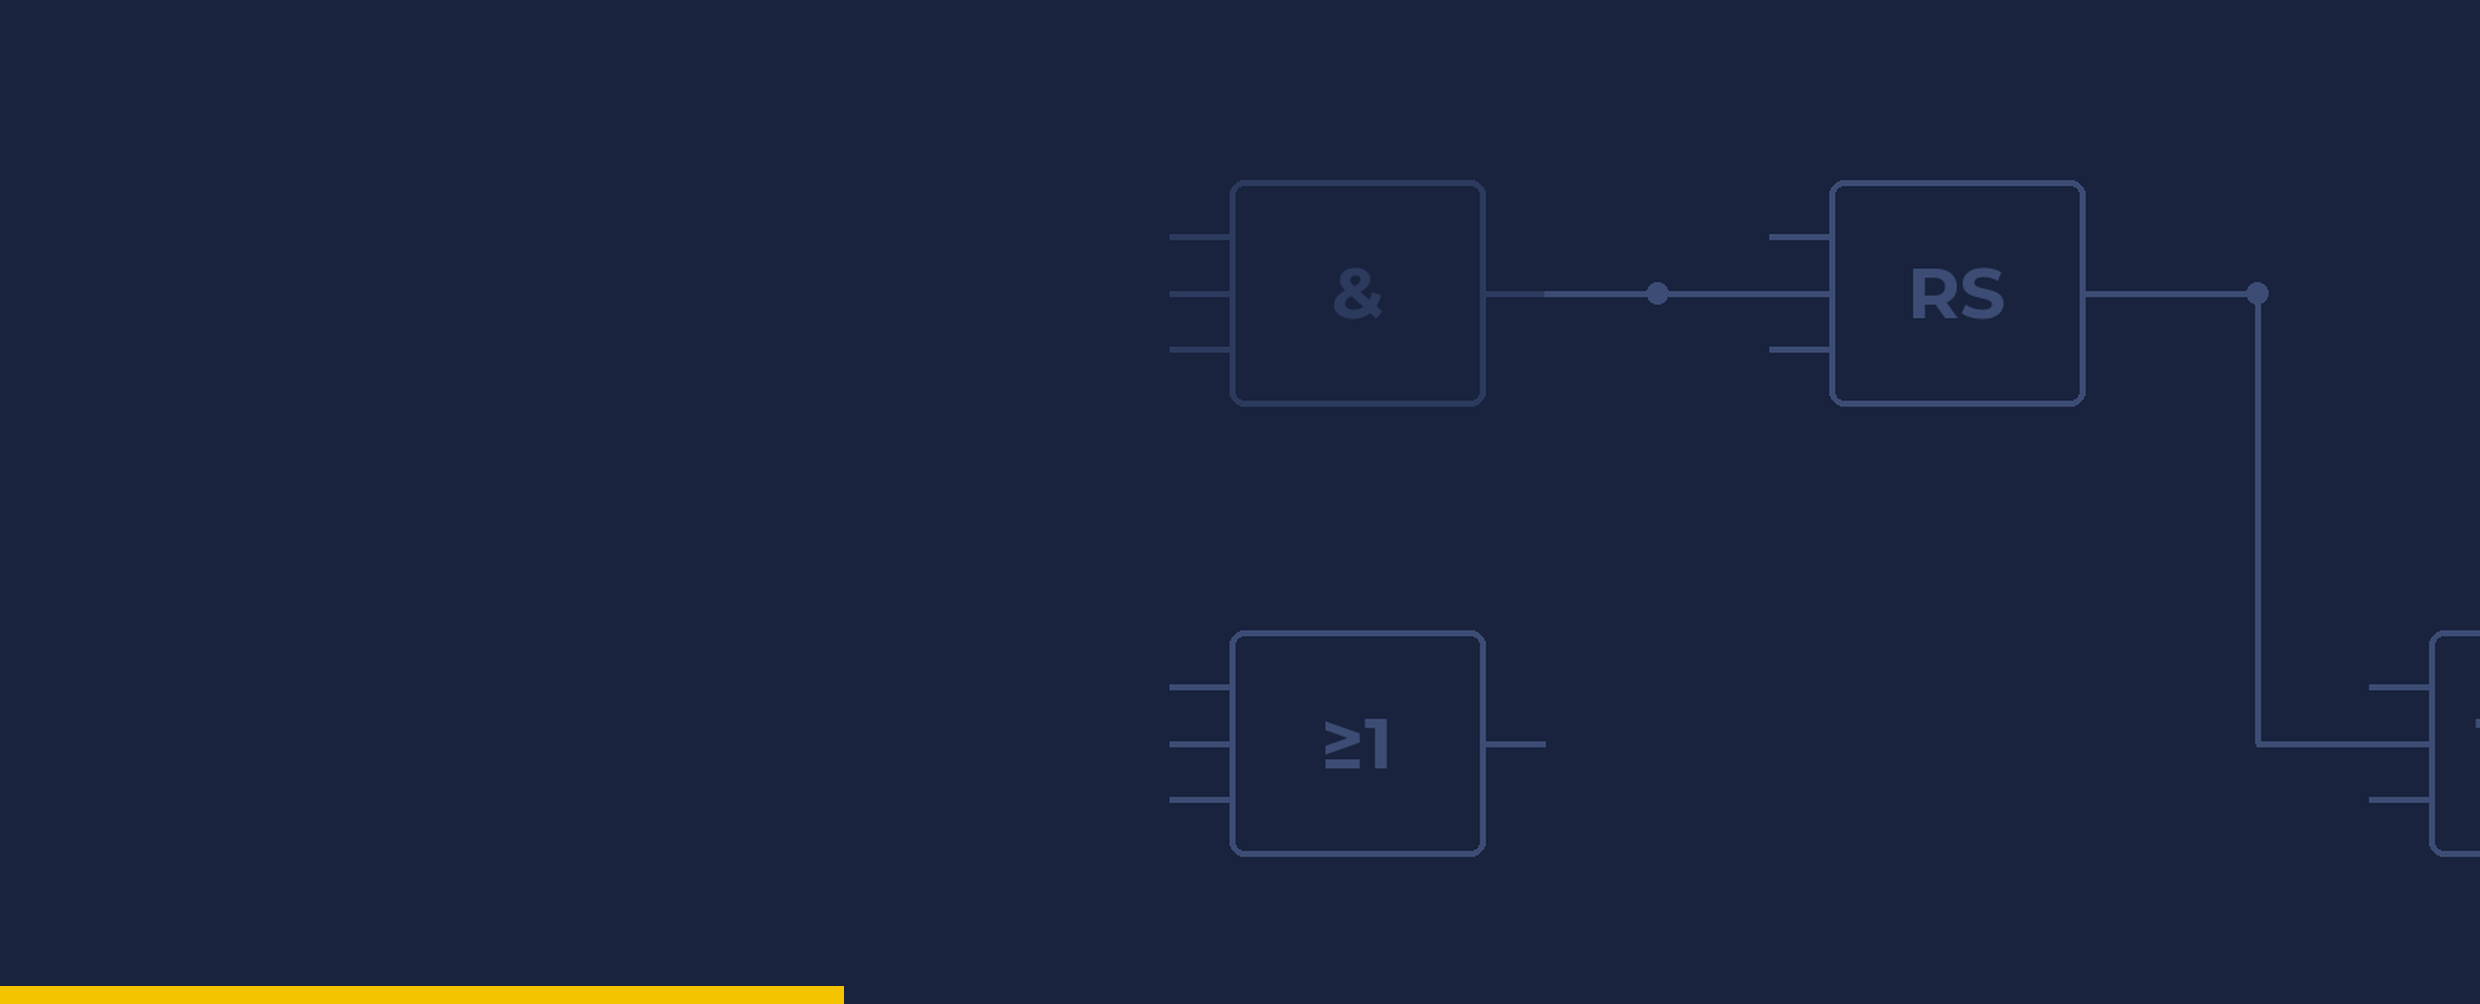
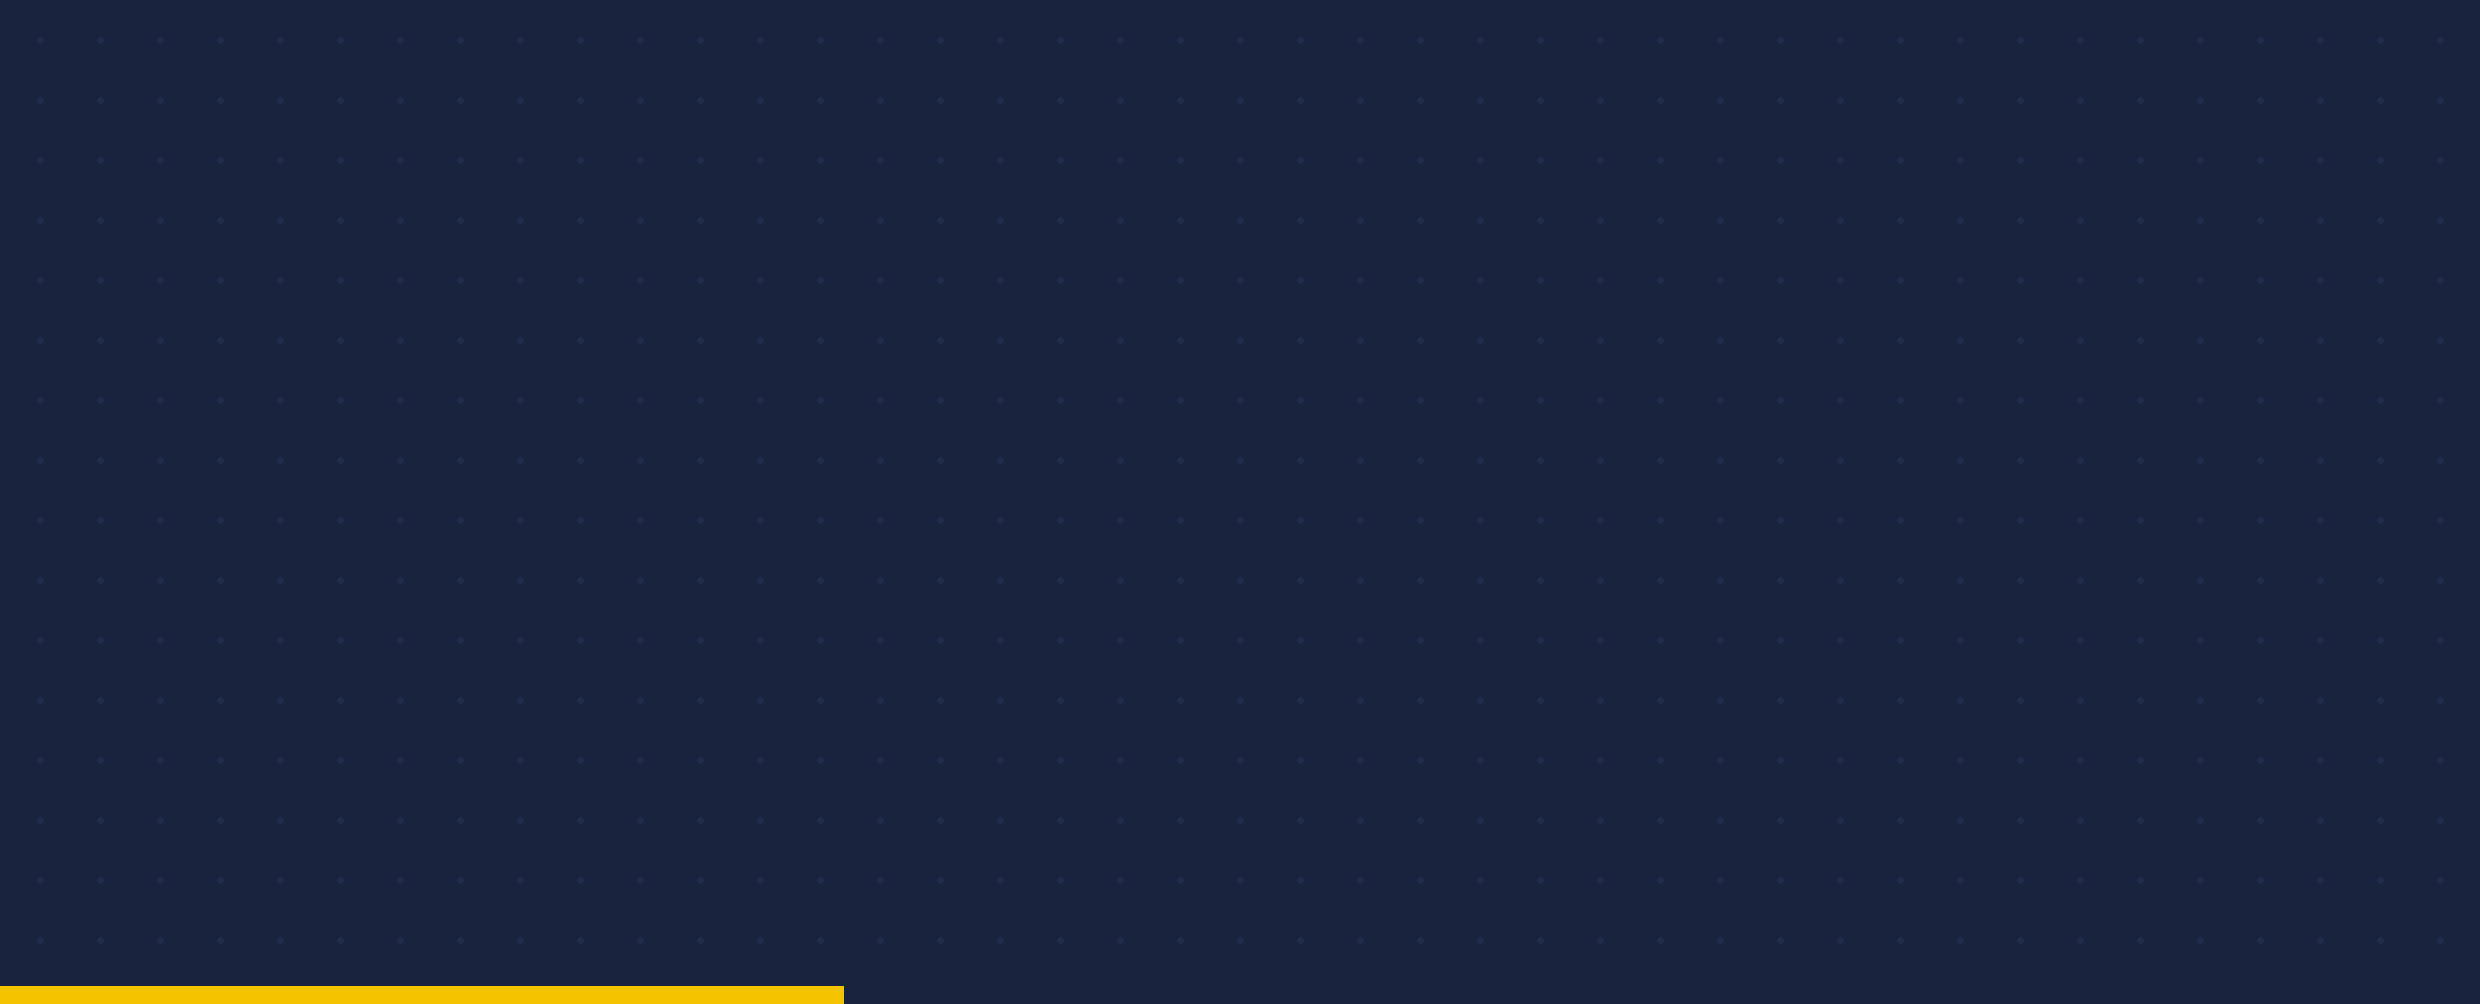
Aperturas con ilustración integrada en la banda, iconos y títulos sin dos puntos
Claude-Session: https://claude.ai/code/session_01M2qFGLwb8HVWzfFEaX54FN

diff --git a/herramientas/maquetar_manual.js b/herramientas/maquetar_manual.js
@@ -468,12 +468,15 @@ function apertura(el, etiqueta) {
   const id = idMarcador();
   indice.push({ nivel: 2, texto: el.text, id });
   const m = el.text.match(/^(\d+)\.\s*(.*)$/) || el.text.match(/^Anexo ([A-Z])\.\s*(.*)$/);
-  const banda = new ImageRun({ type: "png", data: fs.readFileSync(path.join(RAIZ, "assets/generados/banda_capitulo.png")),
+  const claveB = el.text.match(/^(\d+)\./) ? el.text.match(/^(\d+)\./)[1] : (el.text.match(/^Anexo ([A-Z])/) || [0, "A"])[1];
+  const fBanda = path.join(RAIZ, `assets/generados/banda_cap_${claveB}.png`);
+  const banda = new ImageRun({ type: "png", data: fs.readFileSync(fs.existsSync(fBanda) ? fBanda : path.join(RAIZ, "assets/generados/banda_capitulo.png")),
     transformation: { width: Math.round(21 / 2.54 * 96), height: Math.round(8.5 / 2.54 * 96) },
     floating: { horizontalPosition: { relative: HorizontalPositionRelativeFrom.PAGE, offset: 0 },
       verticalPosition: { relative: VerticalPositionRelativeFrom.PAGE, offset: 0 },
       behindDocument: true, allowOverlap: true, lockAnchor: true, layoutInCell: false, wrap: { type: TextWrappingType.NONE } } });
-  const celda = new TableCell({ width: { size: ANCHO, type: WidthType.DXA }, verticalAlign: VerticalAlign.BOTTOM,
+  const ANCHO_TIT = ANCHO - Math.round(6.0 * CM);
+  const celda = new TableCell({ width: { size: ANCHO_TIT, type: WidthType.DXA }, verticalAlign: VerticalAlign.BOTTOM,
     borders: { top: SIN, bottom: SIN, left: SIN, right: SIN }, margins: { top: 0, bottom: 120, left: 0, right: 0 },
     children: [
       new Paragraph({ spacing: { after: 60 }, children: [
@@ -487,12 +490,13 @@ function apertura(el, etiqueta) {
     transformation: { width: Math.round(6.3 / 2.54 * 96), height: Math.round(4.2 / 2.54 * 96) },
     floating: { horizontalPosition: { relative: HorizontalPositionRelativeFrom.PAGE, offset: EMU(21 - 2.0 - 6.3) },
       verticalPosition: { relative: VerticalPositionRelativeFrom.PAGE, offset: EMU(1.2) },
-      behindDocument: true, allowOverlap: true, lockAnchor: true, layoutInCell: false, wrap: { type: TextWrappingType.NONE } } })] : [];
+      behindDocument: false, allowOverlap: true, lockAnchor: true, layoutInCell: false, wrap: { type: TextWrappingType.NONE } } })] : [];
   return [
-    new Paragraph({ spacing: { before: 0, after: 0, line: 20, lineRule: "exact" }, children: [banda, ...ilus] }),
-    new Table({ width: { size: ANCHO, type: WidthType.DXA }, columnWidths: [ANCHO], layout: TableLayoutType.FIXED,
+    new Paragraph({ spacing: { before: 0, after: 0, line: 20, lineRule: "exact" }, children: [banda] }),
+    new Table({ width: { size: ANCHO, type: WidthType.DXA }, columnWidths: [ANCHO_TIT, ANCHO - ANCHO_TIT], layout: TableLayoutType.FIXED,
       borders: { top: SIN, bottom: SIN, left: SIN, right: SIN, insideHorizontal: SIN, insideVertical: SIN },
-      rows: [new TableRow({ height: { value: Math.round(5.6 * CM), rule: HeightRule.EXACT }, children: [celda] })] }),
+      rows: [new TableRow({ height: { value: Math.round(5.6 * CM), rule: HeightRule.EXACT }, children: [celda,
+        new TableCell({ width: { size: ANCHO - ANCHO_TIT, type: WidthType.DXA }, borders: { top: SIN, bottom: SIN, left: SIN, right: SIN }, children: [new Paragraph("")] })] })] }),
     esp(30),
   ];
 }

diff --git a/herramientas/graficos.py b/herramientas/graficos.py
@@ -188,10 +188,11 @@ def banda_capitulo():
     """Banda superior de apertura de capítulo: 21 x 8,5 cm a 300 ppp."""
     W3, H3 = 2480, 1004
     img = Image.new("RGB", (W3, H3), NAVY)
-    pat = Image.new("RGB", (W, int(H3 * W / W3)), NAVY)
-    patron_fup(ImageDraw.Draw(pat), 700, 30, W, pat.height - 40, NAVY_2, NAVY_3)
-    img.paste(pat.resize((W3, H3), Image.LANCZOS), (0, 0))
     d = ImageDraw.Draw(img)
+    # retícula de puntos muy suave, sin bloques: la ilustración del capítulo da el motivo
+    for x in range(40, W3, 60):
+        for y in range(40, H3 - 40, 60):
+            d.ellipse([x - 3, y - 3, x + 3, y + 3], fill=(32, 44, 74))
     d.rectangle([0, H3 - 18, int(W3 * 0.34), H3], fill=YELLOW)
     img.save(OUT / "banda_capitulo.png", optimize=True)
 
@@ -225,3 +226,25 @@ if __name__ == "__main__":
     banda_capitulo()
     pestanas()
     print("Gráficos generados en", OUT)
+
+
+def bandas_por_capitulo():
+    """Une la banda azul con la ilustración de cada capítulo en una sola imagen."""
+    base = Image.open(OUT / "banda_capitulo.png").convert("RGBA")
+    ilus_dir = Path(__file__).resolve().parent.parent / "assets" / "ilustraciones" / "apertura"
+    if not ilus_dir.exists():
+        return
+    W3, H3 = base.size                      # 21 x 8,5 cm a 300 ppp
+    ppcm = W3 / 21
+    for f in sorted(ilus_dir.glob("cap_*.png")):
+        ilus = Image.open(f).convert("RGBA")
+        w = int(6.6 * ppcm)
+        h = int(ilus.height * w / ilus.width)
+        ilus = ilus.resize((w, h), Image.LANCZOS)
+        im = base.copy()
+        im.alpha_composite(ilus, (int((21 - 1.9 - 6.6) * ppcm), int(1.3 * ppcm)))
+        im.convert("RGB").save(OUT / f"banda_{f.stem}.png", optimize=True)
+
+
+if __name__ == "__main__":
+    bandas_por_capitulo()
